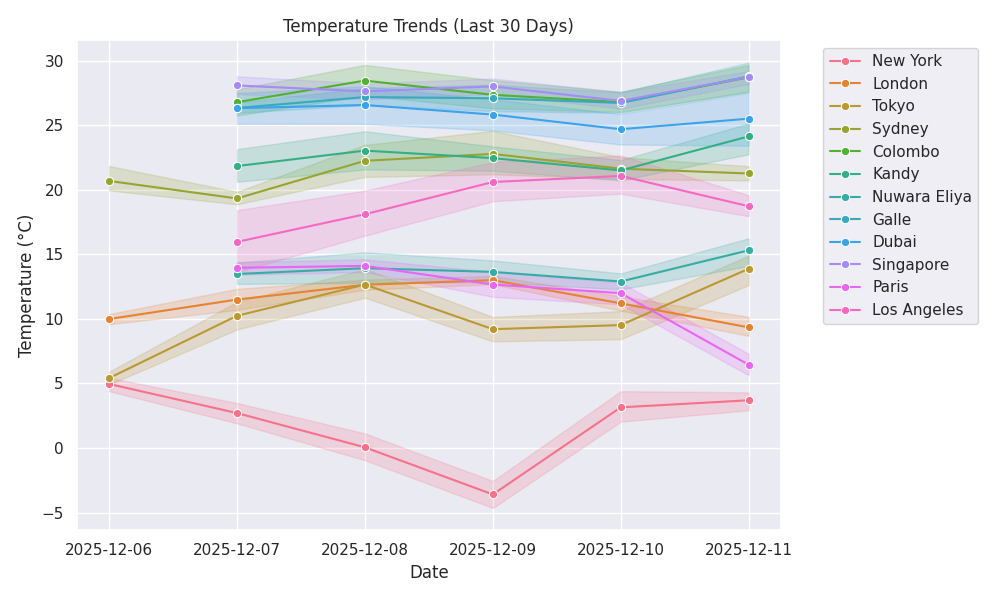
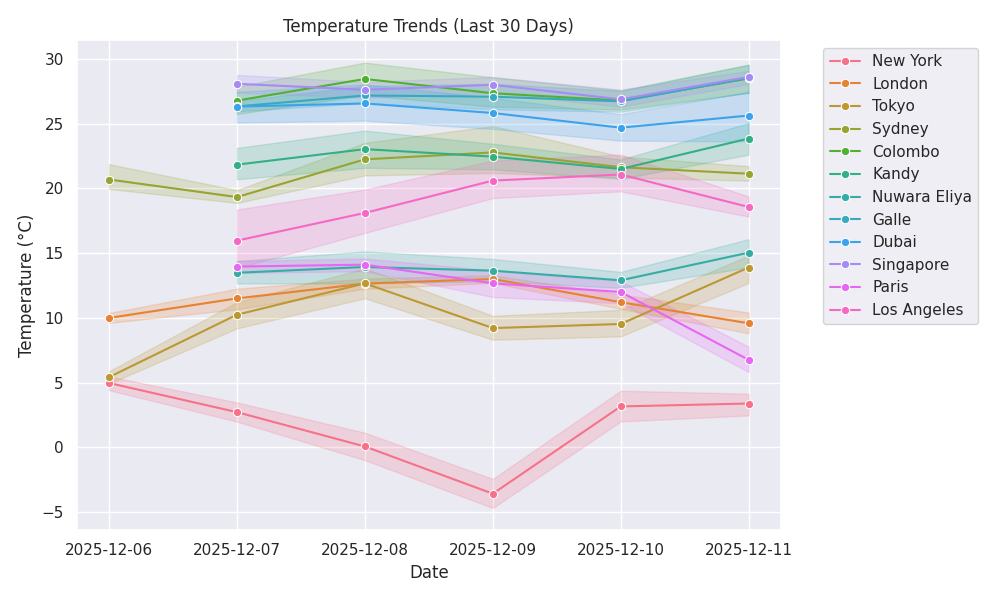
🌦 Weather update: 2025-12-11 13:34

diff --git a/public/index.html b/public/index.html
@@ -11,7 +11,7 @@
     <div class="max-w-6xl mx-auto">
         <header class="mb-8 text-center">
             <h1 class="text-4xl font-bold mb-2">🌍 Global Weather Dashboard</h1>
-            <p class="text-slate-400">Last Updated: 2025-12-11 12:28:57</p>
+            <p class="text-slate-400">Last Updated: 2025-12-11 13:34:05</p>
         </header>
         
         <!-- AI Summary -->
@@ -26,15 +26,15 @@
             <div class="bg-slate-800 p-6 rounded-xl shadow-lg border-t-4 border-blue-500 hover:scale-105 transition-transform">
                 <div class="flex justify-between items-start">
                     <h3 class="text-xl font-bold">Paris</h3>
-                    <span class="text-3xl">🌫</span>
+                    <span class="text-3xl">☁</span>
                 </div>
                 <div class="mt-4">
-                    <p class="text-4xl font-bold">9.34°C</p>
-                    <p class="text-slate-400 capitalize">mist</p>
+                    <p class="text-4xl font-bold">10.03°C</p>
+                    <p class="text-slate-400 capitalize">overcast clouds</p>
                 </div>
                 <div class="mt-4 text-sm text-slate-500">
-                    <p>💧 Humidity: 98%</p>
-                    <p>💨 Wind: 2.06 m/s</p>
+                    <p>💧 Humidity: 96%</p>
+                    <p>💨 Wind: 2.57 m/s</p>
                 </div>
             </div>
             
@@ -44,8 +44,8 @@
                     <span class="text-3xl">☁</span>
                 </div>
                 <div class="mt-4">
-                    <p class="text-4xl font-bold">12.19°C</p>
-                    <p class="text-slate-400 capitalize">scattered clouds</p>
+                    <p class="text-4xl font-bold">12.1°C</p>
+                    <p class="text-slate-400 capitalize">broken clouds</p>
                 </div>
                 <div class="mt-4 text-sm text-slate-500">
                     <p>💧 Humidity: 79%</p>
@@ -56,15 +56,15 @@
             <div class="bg-slate-800 p-6 rounded-xl shadow-lg border-t-4 border-blue-500 hover:scale-105 transition-transform">
                 <div class="flex justify-between items-start">
                     <h3 class="text-xl font-bold">Sydney</h3>
-                    <span class="text-3xl">☁</span>
+                    <span class="text-3xl">🌦</span>
                 </div>
                 <div class="mt-4">
-                    <p class="text-4xl font-bold">20.19°C</p>
-                    <p class="text-slate-400 capitalize">overcast clouds</p>
+                    <p class="text-4xl font-bold">19.73°C</p>
+                    <p class="text-slate-400 capitalize">light intensity drizzle</p>
                 </div>
                 <div class="mt-4 text-sm text-slate-500">
-                    <p>💧 Humidity: 75%</p>
-                    <p>💨 Wind: 6.17 m/s</p>
+                    <p>💧 Humidity: 79%</p>
+                    <p>💨 Wind: 5.66 m/s</p>
                 </div>
             </div>
             
@@ -74,11 +74,11 @@
                     <span class="text-3xl">☁</span>
                 </div>
                 <div class="mt-4">
-                    <p class="text-4xl font-bold">27.9°C</p>
+                    <p class="text-4xl font-bold">27.32°C</p>
                     <p class="text-slate-400 capitalize">broken clouds</p>
                 </div>
                 <div class="mt-4 text-sm text-slate-500">
-                    <p>💧 Humidity: 80%</p>
+                    <p>💧 Humidity: 83%</p>
                     <p>💨 Wind: 2.06 m/s</p>
                 </div>
             </div>
@@ -89,11 +89,11 @@
                     <span class="text-3xl">☀</span>
                 </div>
                 <div class="mt-4">
-                    <p class="text-4xl font-bold">28.96°C</p>
+                    <p class="text-4xl font-bold">26.96°C</p>
                     <p class="text-slate-400 capitalize">clear sky</p>
                 </div>
                 <div class="mt-4 text-sm text-slate-500">
-                    <p>💧 Humidity: 45%</p>
+                    <p>💧 Humidity: 54%</p>
                     <p>💨 Wind: 5.14 m/s</p>
                 </div>
             </div>
@@ -104,27 +104,27 @@
                     <span class="text-3xl">☁</span>
                 </div>
                 <div class="mt-4">
-                    <p class="text-4xl font-bold">26.4°C</p>
-                    <p class="text-slate-400 capitalize">broken clouds</p>
+                    <p class="text-4xl font-bold">25.93°C</p>
+                    <p class="text-slate-400 capitalize">overcast clouds</p>
                 </div>
                 <div class="mt-4 text-sm text-slate-500">
-                    <p>💧 Humidity: 80%</p>
-                    <p>💨 Wind: 1.77 m/s</p>
+                    <p>💧 Humidity: 82%</p>
+                    <p>💨 Wind: 2.21 m/s</p>
                 </div>
             </div>
             
             <div class="bg-slate-800 p-6 rounded-xl shadow-lg border-t-4 border-blue-500 hover:scale-105 transition-transform">
                 <div class="flex justify-between items-start">
                     <h3 class="text-xl font-bold">Nuwara Eliya</h3>
-                    <span class="text-3xl">☁</span>
+                    <span class="text-3xl">🌧</span>
                 </div>
                 <div class="mt-4">
-                    <p class="text-4xl font-bold">13.58°C</p>
-                    <p class="text-slate-400 capitalize">overcast clouds</p>
+                    <p class="text-4xl font-bold">11.97°C</p>
+                    <p class="text-slate-400 capitalize">moderate rain</p>
                 </div>
                 <div class="mt-4 text-sm text-slate-500">
-                    <p>💧 Humidity: 95%</p>
-                    <p>💨 Wind: 1.84 m/s</p>
+                    <p>💧 Humidity: 98%</p>
+                    <p>💨 Wind: 1.98 m/s</p>
                 </div>
             </div>
             
@@ -134,27 +134,27 @@
                     <span class="text-3xl">🌧</span>
                 </div>
                 <div class="mt-4">
-                    <p class="text-4xl font-bold">22.03°C</p>
+                    <p class="text-4xl font-bold">20.75°C</p>
                     <p class="text-slate-400 capitalize">light rain</p>
                 </div>
                 <div class="mt-4 text-sm text-slate-500">
-                    <p>💧 Humidity: 96%</p>
-                    <p>💨 Wind: 1.84 m/s</p>
+                    <p>💧 Humidity: 99%</p>
+                    <p>💨 Wind: 2.18 m/s</p>
                 </div>
             </div>
             
             <div class="bg-slate-800 p-6 rounded-xl shadow-lg border-t-4 border-blue-500 hover:scale-105 transition-transform">
                 <div class="flex justify-between items-start">
                     <h3 class="text-xl font-bold">Colombo</h3>
-                    <span class="text-3xl">🌧</span>
+                    <span class="text-3xl">☁</span>
                 </div>
                 <div class="mt-4">
-                    <p class="text-4xl font-bold">27.24°C</p>
-                    <p class="text-slate-400 capitalize">light rain</p>
+                    <p class="text-4xl font-bold">26.13°C</p>
+                    <p class="text-slate-400 capitalize">overcast clouds</p>
                 </div>
                 <div class="mt-4 text-sm text-slate-500">
-                    <p>💧 Humidity: 83%</p>
-                    <p>💨 Wind: 7.79 m/s</p>
+                    <p>💧 Humidity: 85%</p>
+                    <p>💨 Wind: 7.13 m/s</p>
                 </div>
             </div>
             
@@ -164,26 +164,26 @@
                     <span class="text-3xl">☀</span>
                 </div>
                 <div class="mt-4">
-                    <p class="text-4xl font-bold">0.64°C</p>
+                    <p class="text-4xl font-bold">-0.16°C</p>
                     <p class="text-slate-400 capitalize">clear sky</p>
                 </div>
                 <div class="mt-4 text-sm text-slate-500">
-                    <p>💧 Humidity: 53%</p>
-                    <p>💨 Wind: 7.72 m/s</p>
+                    <p>💧 Humidity: 47%</p>
+                    <p>💨 Wind: 11.32 m/s</p>
                 </div>
             </div>
             
             <div class="bg-slate-800 p-6 rounded-xl shadow-lg border-t-4 border-blue-500 hover:scale-105 transition-transform">
                 <div class="flex justify-between items-start">
                     <h3 class="text-xl font-bold">Tokyo</h3>
-                    <span class="text-3xl">☀</span>
+                    <span class="text-3xl">☁</span>
                 </div>
                 <div class="mt-4">
-                    <p class="text-4xl font-bold">14.09°C</p>
-                    <p class="text-slate-400 capitalize">clear sky</p>
+                    <p class="text-4xl font-bold">13.9°C</p>
+                    <p class="text-slate-400 capitalize">few clouds</p>
                 </div>
                 <div class="mt-4 text-sm text-slate-500">
-                    <p>💧 Humidity: 52%</p>
+                    <p>💧 Humidity: 55%</p>
                     <p>💨 Wind: 8.75 m/s</p>
                 </div>
             </div>
@@ -194,11 +194,11 @@
                     <span class="text-3xl">☀</span>
                 </div>
                 <div class="mt-4">
-                    <p class="text-4xl font-bold">18.26°C</p>
+                    <p class="text-4xl font-bold">16.78°C</p>
                     <p class="text-slate-400 capitalize">clear sky</p>
                 </div>
                 <div class="mt-4 text-sm text-slate-500">
-                    <p>💧 Humidity: 44%</p>
+                    <p>💧 Humidity: 49%</p>
                     <p>💨 Wind: 1.54 m/s</p>
                 </div>
             </div>

diff --git a/README.md b/README.md
@@ -8,8 +8,8 @@
 
 ---
 
-## ⚡ Live Status (Updated: 2025-12-11 12:29 UTC)
-![Paris](https://img.shields.io/badge/Paris-9.34°C-blue) ![London](https://img.shields.io/badge/London-12.19°C-blue) ![Sydney](https://img.shields.io/badge/Sydney-20.19°C-green) ![Singapore](https://img.shields.io/badge/Singapore-27.9°C-orange) ![Dubai](https://img.shields.io/badge/Dubai-28.96°C-orange) ![Galle](https://img.shields.io/badge/Galle-26.4°C-orange) ![Nuwara Eliya](https://img.shields.io/badge/Nuwara%20Eliya-13.58°C-blue) ![Kandy](https://img.shields.io/badge/Kandy-22.03°C-green) ![Colombo](https://img.shields.io/badge/Colombo-27.24°C-orange) ![New York](https://img.shields.io/badge/New%20York-0.64°C-blue) ![Tokyo](https://img.shields.io/badge/Tokyo-14.09°C-blue) ![Los Angeles](https://img.shields.io/badge/Los%20Angeles-18.26°C-green) 
+## ⚡ Live Status (Updated: 2025-12-11 13:34 UTC)
+![Paris](https://img.shields.io/badge/Paris-10.03°C-blue) ![London](https://img.shields.io/badge/London-12.1°C-blue) ![Sydney](https://img.shields.io/badge/Sydney-19.73°C-green) ![Singapore](https://img.shields.io/badge/Singapore-27.32°C-orange) ![Dubai](https://img.shields.io/badge/Dubai-26.96°C-orange) ![Galle](https://img.shields.io/badge/Galle-25.93°C-orange) ![Nuwara Eliya](https://img.shields.io/badge/Nuwara%20Eliya-11.97°C-blue) ![Kandy](https://img.shields.io/badge/Kandy-20.75°C-green) ![Colombo](https://img.shields.io/badge/Colombo-26.13°C-orange) ![New York](https://img.shields.io/badge/New%20York--0.16°C-blue) ![Tokyo](https://img.shields.io/badge/Tokyo-13.9°C-blue) ![Los Angeles](https://img.shields.io/badge/Los%20Angeles-16.78°C-green) 
 
 <div align="center">
   <h3>🏆 Weather Records (Live)</h3>
@@ -19,8 +19,8 @@
         <td align="center">❄ <b>Coldest City</b></td>
     </tr>
     <tr>
-        <td align="center"><b>Dubai</b><br>28.96°C</td>
-        <td align="center"><b>New York</b><br>0.64°C</td>
+        <td align="center"><b>Singapore</b><br>27.32°C</td>
+        <td align="center"><b>New York</b><br>-0.16°C</td>
     </tr>
   </table>
 </div>
@@ -28,18 +28,18 @@
 ## 📊 Global Overview
 | 🌍 City | 🌡 Temp | 🌤 Condition | 💧 Humidity | 🌬 Wind |
 |---|---|---|---|---|
-| **Paris** | 9.34°C | mist | 🟦🟦🟦🟦⬜ 98% | 2.06 m/s |
-| **London** | 12.19°C | scattered clouds | 🟦🟦🟦⬜⬜ 79% | 4.02 m/s |
-| **Sydney** | 20.19°C | overcast clouds | 🟦🟦🟦⬜⬜ 75% | 6.17 m/s |
-| **Singapore** | 27.9°C | broken clouds | 🟦🟦🟦🟦⬜ 80% | 2.06 m/s |
-| **Dubai** | 28.96°C | clear sky | 🟦🟦⬜⬜⬜ 45% | 5.14 m/s |
-| **Galle** | 26.4°C | broken clouds | 🟦🟦🟦🟦⬜ 80% | 1.77 m/s |
-| **Nuwara Eliya** | 13.58°C | overcast clouds | 🟦🟦🟦🟦⬜ 95% | 1.84 m/s |
-| **Kandy** | 22.03°C | light rain | 🟦🟦🟦🟦⬜ 96% | 1.84 m/s |
-| **Colombo** | 27.24°C | light rain | 🟦🟦🟦🟦⬜ 83% | 7.79 m/s |
-| **New York** | 0.64°C | clear sky | 🟦🟦⬜⬜⬜ 53% | 7.72 m/s |
-| **Tokyo** | 14.09°C | clear sky | 🟦🟦⬜⬜⬜ 52% | 8.75 m/s |
-| **Los Angeles** | 18.26°C | clear sky | 🟦🟦⬜⬜⬜ 44% | 1.54 m/s |
+| **Paris** | 10.03°C | overcast clouds | 🟦🟦🟦🟦⬜ 96% | 2.57 m/s |
+| **London** | 12.1°C | broken clouds | 🟦🟦🟦⬜⬜ 79% | 4.02 m/s |
+| **Sydney** | 19.73°C | light intensity drizzle | 🟦🟦🟦⬜⬜ 79% | 5.66 m/s |
+| **Singapore** | 27.32°C | broken clouds | 🟦🟦🟦🟦⬜ 83% | 2.06 m/s |
+| **Dubai** | 26.96°C | clear sky | 🟦🟦⬜⬜⬜ 54% | 5.14 m/s |
+| **Galle** | 25.93°C | overcast clouds | 🟦🟦🟦🟦⬜ 82% | 2.21 m/s |
+| **Nuwara Eliya** | 11.97°C | moderate rain | 🟦🟦🟦🟦⬜ 98% | 1.98 m/s |
+| **Kandy** | 20.75°C | light rain | 🟦🟦🟦🟦⬜ 99% | 2.18 m/s |
+| **Colombo** | 26.13°C | overcast clouds | 🟦🟦🟦🟦⬜ 85% | 7.13 m/s |
+| **New York** | -0.16°C | clear sky | 🟦🟦⬜⬜⬜ 47% | 11.32 m/s |
+| **Tokyo** | 13.9°C | few clouds | 🟦🟦⬜⬜⬜ 55% | 8.75 m/s |
+| **Los Angeles** | 16.78°C | clear sky | 🟦🟦⬜⬜⬜ 49% | 1.54 m/s |
 
 
 ## 📈 Temperature Trends
